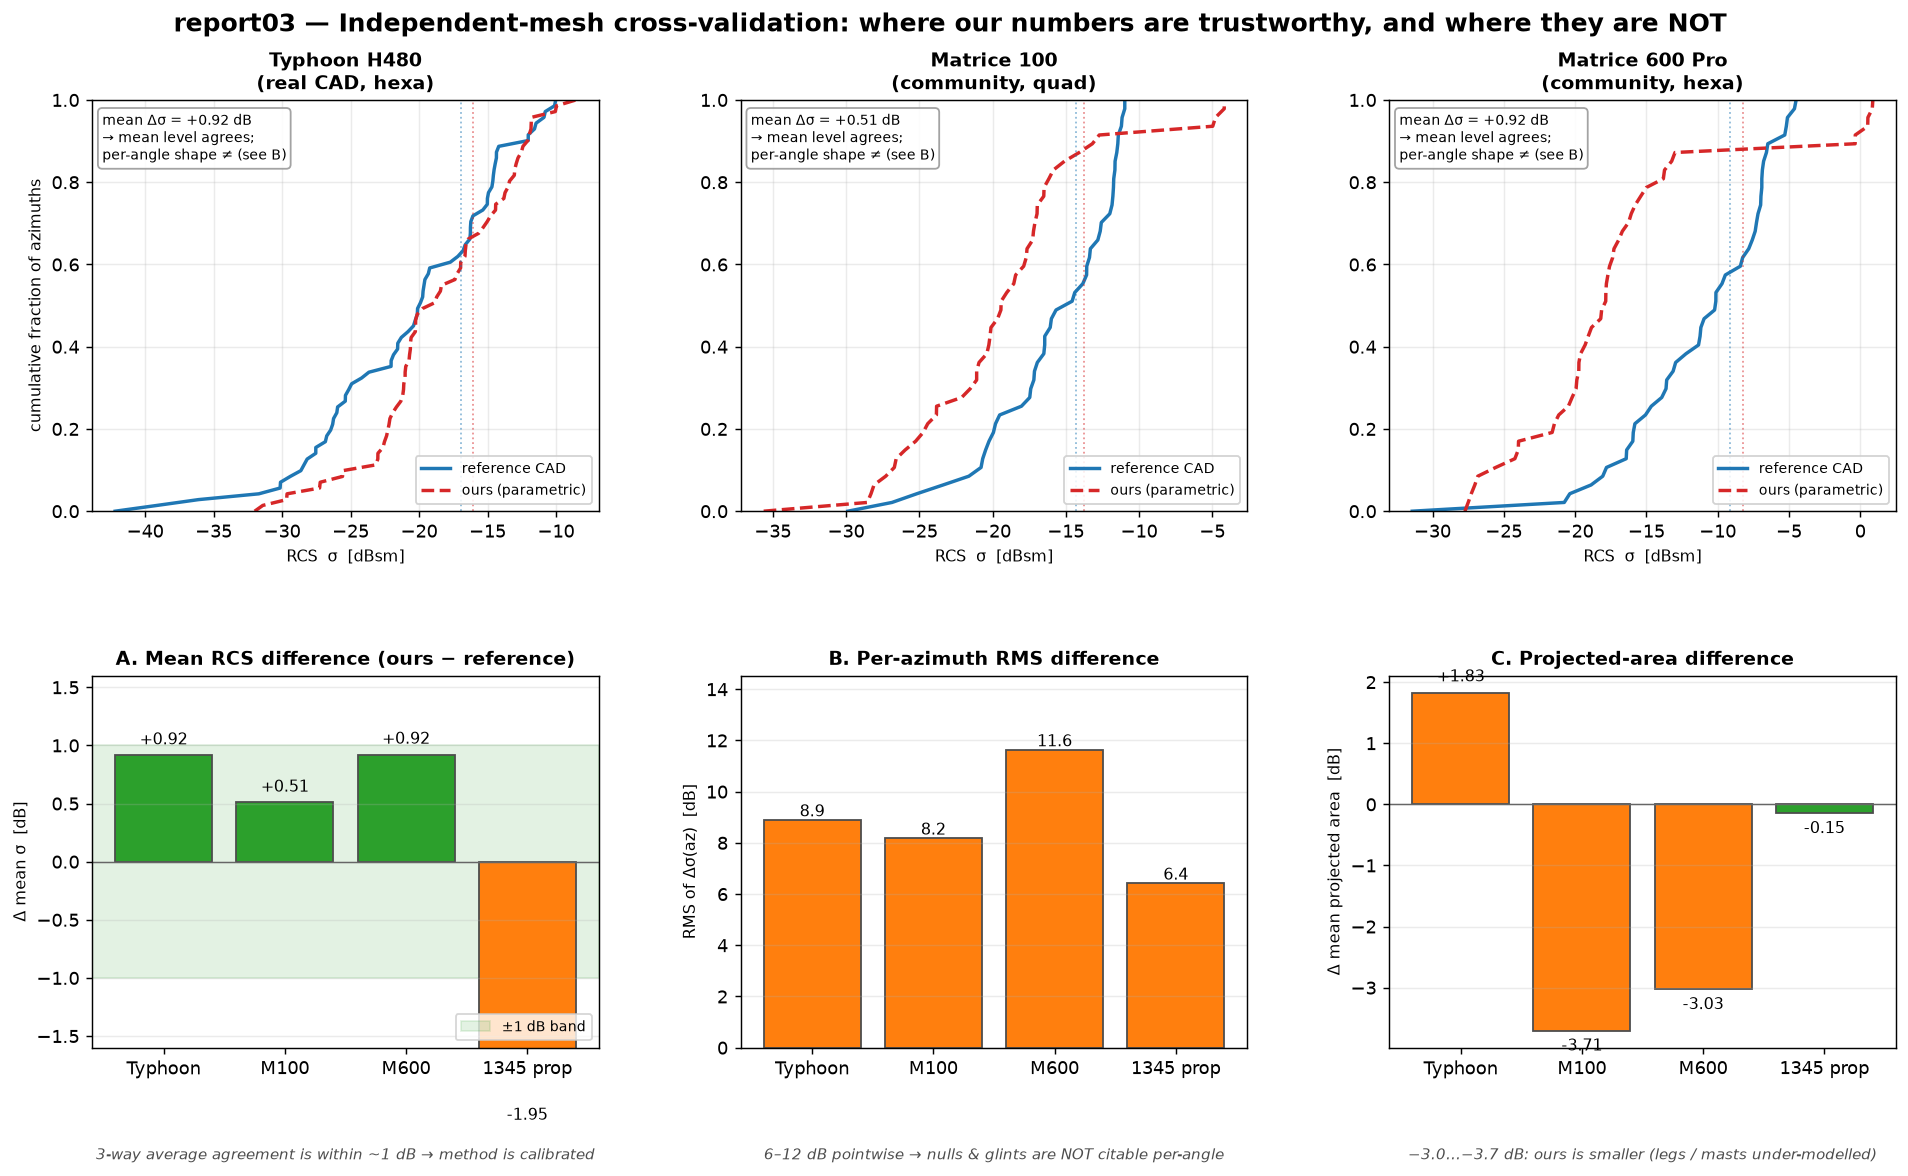
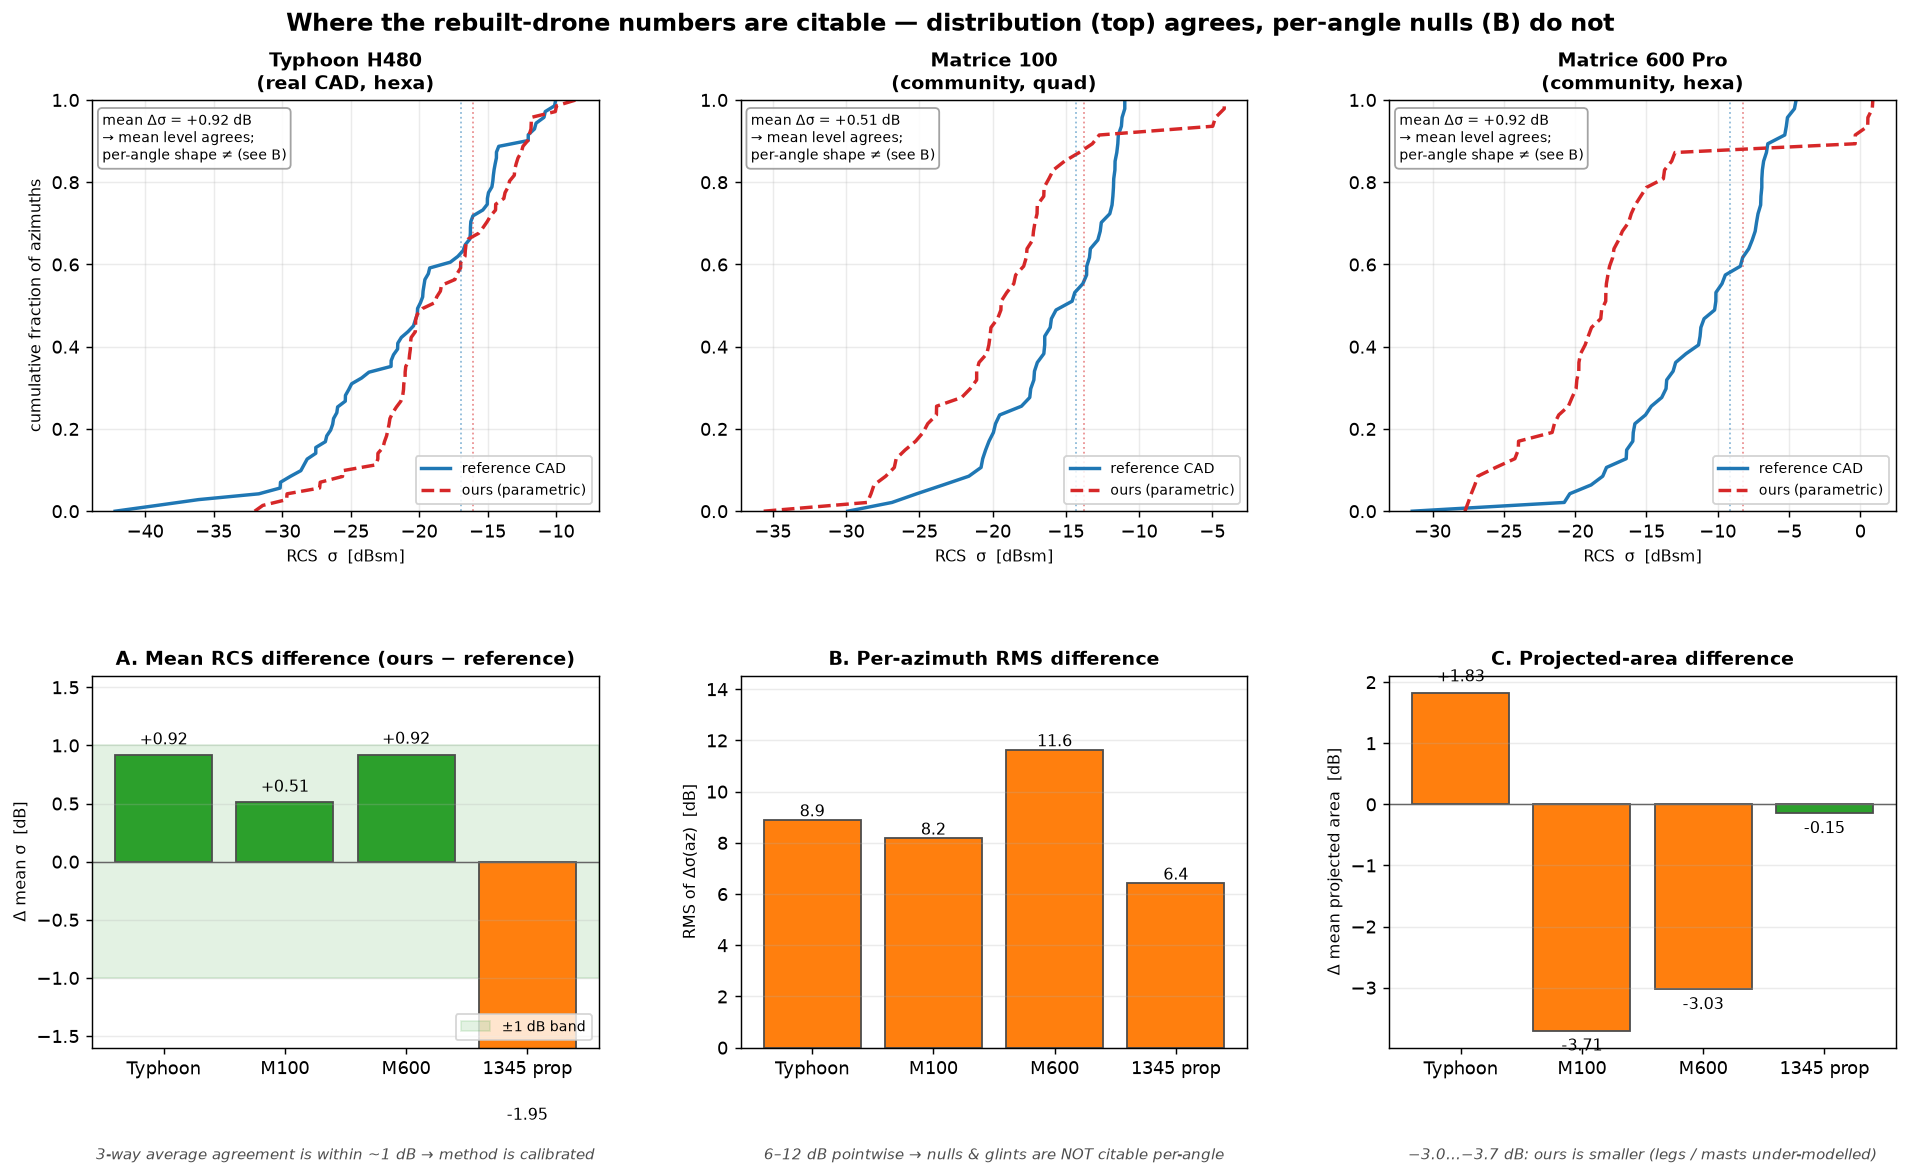
report03 그림 최신화 — 옛 overlay·CDF 스타일을 4종 통일 비교 그림으로 교체
사용자 지적: overlay 그림이 오늘 작업 전(09:20) stale, confidence 제목도 옛것.
- **report03_compare_all.png 신설**: 다운로드 실기체 4종(Typhoon·M100·M600·Phantom
  실측스캔)을 한 표에서 통일 스타일로 — 각 행 [원본 | 우리 재현 | Δ면적·Δσ 결과 막대].
  Phantom 스캔은 점구름, 나머지는 메쉬. src/viz_report3_compare_all.py.
- §3를 이 단일 통일 그림으로 재구성(옛 report03_mesh_overlay·phantom_scan 임베드 제거).
- confidence(CDF) 그림 제목을 현재형으로 갱신, '인용경계 상세'로 유지(최신 데이터).
- Δσ 네 기체 약 ±1 dB(+0.92·+0.51·+0.92·-1.25), Phantom 투영면적 +0.14 dB.

Changed region(s): [[0.0928, 0.0, 0.8968, 0.0306]]

diff --git a/src/viz_report3_compare_all.py b/src/viz_report3_compare_all.py
@@ -1,0 +1,162 @@
+# -*- coding: utf-8 -*-
+"""viz_report3_compare_all.py — report03: 다운로드 실기체 4종을 한 표에서 통일 비교(결과).
+
+각 행 = 다운로드한 원본(왼쪽) · 그 기체를 우리 방식으로 다시 만든 메쉬(가운데) ·
+        형상 일치도(오른쪽, Δ투영면적·Δσ, 둘 다 PEC). 네 기체 모두 ±1 dB 근방이면
+        '스펙시트 → 형상 → 밝기' 파이프라인의 눈금이 맞는다는 뜻.
+원본: 제조사 실물 CAD(Typhoon)·커뮤니티 메쉬(M100·M600)·실물 0.4mm 스캔(Phantom 4).
+출력: outputs/figures/report03_compare_all.png (그림 텍스트 영어 규약).
+"""
+from __future__ import annotations
+import json, os, sys
+import matplotlib; matplotlib.use("Agg")
+import matplotlib.pyplot as plt
+import numpy as np
+from mpl_toolkits.mplot3d.art3d import Poly3DCollection
+
+HERE = os.path.dirname(os.path.abspath(__file__)); ROOT = os.path.abspath(os.path.join(HERE, ".."))
+for p in (HERE, os.path.join(ROOT, "benchmark")):
+    if p not in sys.path:
+        sys.path.insert(0, p)
+
+from mesh_compare import load_reference                                    # noqa: E402
+from compare_real_cad import ours_body_only                               # noqa: E402
+from compare_community import M100, M600, ours_full, load_community        # noqa: E402
+from drones import DRONES, build_drone                                     # noqa: E402
+
+REAL = json.load(open(os.path.join(ROOT, "outputs", "real_cad_compare.json")))
+COMM = json.load(open(os.path.join(ROOT, "outputs", "community_compare.json")))
+PH4 = json.load(open(os.path.join(ROOT, "outputs", "phantom4_scan_compare.json")))
+SCAN = np.load(os.path.join(ROOT, "assets", "meshes", "cad", "phantom4_scan_points.npz"))
+OUT = os.path.join(ROOT, "outputs", "figures", "report03_compare_all.png")
+
+C_REF = (0.60, 0.62, 0.66)     # 원본 — 중립 회색
+C_OURS = (0.30, 0.50, 0.85)    # 우리 재현 — steel-blue(재질색 metal 톤)
+C_OK, C_WARN = "#2e7d32", "#e08e0b"
+
+
+def _decim(m, cap=70000):
+    if len(m.faces) <= cap:
+        return m
+    try:
+        return m.simplify_quadric_decimation(cap)
+    except Exception:
+        return m
+
+
+def _our_phantom():
+    m = build_drone(DRONES["phantom4"]); V = np.asarray(m.v, float); F = np.asarray(m.f)
+    keep = np.array([g not in ("prop", "camera") for g in m.g])
+    fk = F[keep]; used = np.unique(fk); remap = {o: n for n, o in enumerate(used)}
+    return V[used] - (V[used].max(0) + V[used].min(0)) / 2, np.vectorize(remap.get)(fk)
+
+
+def _mesh_panel(ax, m, color, lim):
+    m = _decim(m); V = np.asarray(m.vertices, float); tris = V[np.asarray(m.faces)]
+    nrm = np.cross(tris[:, 1] - tris[:, 0], tris[:, 2] - tris[:, 0])
+    ln = np.linalg.norm(nrm, axis=1, keepdims=True); ln[ln < 1e-9] = 1
+    sh = 0.5 + 0.5 * np.clip(nrm[:, 2:3] / ln * 0.6 + 0.5, 0, 1)
+    ax.add_collection3d(Poly3DCollection(tris, facecolors=np.clip(np.array(color)[None, :] * sh, 0, 1), edgecolors="none"))
+    _lim3d(ax, lim)
+
+
+def _tris_panel(ax, V, F, color, lim):
+    tris = V[F]
+    nrm = np.cross(tris[:, 1] - tris[:, 0], tris[:, 2] - tris[:, 0])
+    ln = np.linalg.norm(nrm, axis=1, keepdims=True); ln[ln < 1e-9] = 1
+    sh = 0.5 + 0.5 * np.clip(nrm[:, 2:3] / ln * 0.6 + 0.5, 0, 1)
+    ax.add_collection3d(Poly3DCollection(tris, facecolors=np.clip(np.array(color)[None, :] * sh, 0, 1), edgecolors="none"))
+    _lim3d(ax, lim)
+
+
+def _pts_panel(ax, P, lim):
+    ax.scatter(P[:, 0], P[:, 1], P[:, 2], c=P[:, 2], cmap="viridis", s=1.1, alpha=0.85, linewidths=0)
+    _lim3d(ax, lim)
+
+
+def _lim3d(ax, lim):
+    ax.set_xlim(-lim, lim); ax.set_ylim(-lim, lim); ax.set_zlim(-lim * 0.6, lim * 0.6)
+    ax.set_box_aspect((1, 1, 0.6)); ax.view_init(22, -58); ax.set_axis_off()
+
+
+def _rad(V):
+    c = (V.max(0) + V.min(0)) / 2
+    return float(np.linalg.norm(V - c, axis=1).max())
+
+
+def _result_panel(ax, d):
+    vals = [d["d_area_db"], d["d_sigma_db"]]
+    cols = [C_OK if abs(v) <= 1.0 else C_WARN for v in vals]
+    XL = 4.6                                         # Δarea 가 -3.7 까지 가므로 넉넉히
+    ax.axvspan(-1, 1, color=C_OK, alpha=0.13, label="±1 dB")
+    ax.axvline(0, color="0.5", lw=0.8)
+    y = [1, 0]
+    ax.barh(y, vals, color=cols, edgecolor="0.3", height=0.5)
+    for yi, v in zip(y, vals):
+        # 라벨은 항상 막대 끝의 0 쪽 안에 둔다(축 밖으로 안 나가게)
+        inside = v >= 0
+        ax.text(v + (-0.12 if inside else 0.12), yi, f"{v:+.2f}", va="center",
+                ha="right" if inside else "left", fontsize=9.5, fontweight="bold",
+                color="white" if abs(v) > 0.6 else "0.2")
+    ax.set_yticks([1, 0]); ax.set_yticklabels(["Δ area", "Δ σ"], fontsize=9)
+    ax.set_xlim(-XL, XL * 0.62); ax.set_xticks([-4, -2, -1, 0, 1, 2])
+    ax.tick_params(labelsize=7.5); ax.grid(axis="x", alpha=0.25)
+    ax.set_xlabel("ours − original  [dB]", fontsize=8)
+    ax.text(0.5, -0.48, f"per-az RMS {d['d_sigma_rms_db']:.1f} dB (nulls, not cited)",
+            transform=ax.transAxes, ha="center", fontsize=8, color="0.4")
+
+
+# (name, source_label, kind) — kind: 'real'|'comm'|'scan'
+ROWS = [
+    ("Yuneec Typhoon H480 (frame)", "manufacturer CAD · Apache-2.0", "typhoon"),
+    ("DJI Matrice 100 (2015 quad)", "community mesh", "m100"),
+    ("DJI Matrice 600 Pro (2016 hexa)", "community mesh", "m600"),
+    ("DJI Phantom 4 (real 0.4 mm scan)", "3D scan · Thingiverse CC-BY", "phantom"),
+]
+
+nrow = len(ROWS)
+fig = plt.figure(figsize=(11.5, 2.9 * nrow), dpi=128)
+gs = fig.add_gridspec(nrow, 3, width_ratios=[1, 1, 0.95], hspace=0.30, wspace=0.05,
+                      left=0.02, right=0.98, top=0.93, bottom=0.03)
+
+for r, (name, src, kind) in enumerate(ROWS):
+    # 원본 + 우리 재현 준비
+    if kind == "typhoon":
+        ref = load_reference("main_body_remeshed_v3.stl"); ours = ours_body_only(); d = REAL["typhoon"]
+        refV = np.asarray(ref.vertices); ourV = np.asarray(ours.vertices)
+    elif kind == "m100":
+        ref = load_community("dji_m100.dae"); ours = ours_full(M100); d = COMM["m100"]
+        refV = np.asarray(ref.vertices); ourV = np.asarray(ours.vertices)
+    elif kind == "m600":
+        ref = load_community("dji_m600.dae"); ours = ours_full(M600); d = COMM["m600"]
+        refV = np.asarray(ref.vertices); ourV = np.asarray(ours.vertices)
+    else:  # phantom (scan points)
+        P = SCAN["P"].astype(float); P = P - (P.max(0) + P.min(0)) / 2
+        oV, oF = _our_phantom(); d = PH4
+        refV, ourV = P, oV
+
+    lim = max(_rad(refV), _rad(ourV)) * 1.03
+
+    axL = fig.add_subplot(gs[r, 0], projection="3d")
+    if kind == "phantom":
+        _pts_panel(axL, refV, lim)
+    else:
+        _mesh_panel(axL, ref, C_REF, lim)
+    axL.set_title(f"{name}\ndownloaded original · {src}", fontsize=9.5, fontweight="bold")
+
+    axM = fig.add_subplot(gs[r, 1], projection="3d")
+    if kind == "phantom":
+        _tris_panel(axM, oV, oF, C_OURS, lim)
+    else:
+        _mesh_panel(axM, ours, C_OURS, lim)
+    axM.set_title("rebuilt our way (from spec)", fontsize=9.5, fontweight="bold", color=(0.20, 0.34, 0.60))
+
+    axR = fig.add_subplot(gs[r, 2])
+    _result_panel(axR, d)
+    axR.set_title("shape match (both PEC)", fontsize=9.5, fontweight="bold")
+
+fig.suptitle("Downloaded drones, rebuilt our way — mean σ matches to ~1 dB (per-angle nulls do not, not cited)",
+             fontsize=13, fontweight="bold", y=0.985)
+os.makedirs(os.path.dirname(OUT), exist_ok=True)
+fig.savefig(OUT, dpi=128, bbox_inches="tight", facecolor="white"); plt.close(fig)
+print(f"✅ {os.path.relpath(OUT)}")

diff --git a/src/make_notebook03.py b/src/make_notebook03.py
@@ -112,9 +112,12 @@ cells += provenance_cells(
         "# 커뮤니티 메쉬 대조 (M100 · M600) → outputs/community_compare.json",
         "~/.venvs/py312/bin/python benchmark/compare_community.py",
         "",
-        "# 신뢰 경계 종합 그림 + 인터넷 mesh vs 자작 mesh 시각 비교",
+        "# Phantom 4 실물 0.4mm 스캔 대조 (스캔 STL 필요 — prep_cad_scan.py 참조) → phantom4_scan_compare.json",
+        "~/.venvs/py312/bin/python src/compare_phantom_scan.py",
+        "",
+        "# 통일 비교 그림(4종 원본·재현·일치도) + 인용경계 상세(CDF)",
+        "~/.venvs/py312/bin/python src/viz_report3_compare_all.py",
         "~/.venvs/py312/bin/python src/viz_report3_cad.py",
-        "~/.venvs/py312/bin/python src/viz_report3_overlay.py",
         "",
         "# Gazebo/PX4 SDF 내보내기",
         "~/.venvs/py312/bin/python src/gazebo_export.py",
@@ -126,9 +129,8 @@ cells += provenance_cells(
         dict(file="outputs/real_cad_compare.json", what="Typhoon H480·Holybro 프롭 대조의 모든 숫자 (방위별 σ·면적·평균차)"),
         dict(file="outputs/community_compare.json", what="Matrice 100·600 대조의 모든 숫자"),
         dict(file="outputs/phantom4_scan_compare.json", what="Phantom 4 실물 0.4mm 스캔 vs 우리 메쉬 대조 숫자 (σ·면적·방위별)"),
-        dict(file="outputs/figures/report03_phantom_scan.png", what="Phantom 4 실물 스캔 vs 우리 메쉬 — 원본·재현·일치도(결과)"),
-        dict(file="outputs/figures/report03_confidence.png", what="신뢰 경계 종합 그림 (어디까지 믿나)"),
-        dict(file="outputs/figures/report03_mesh_overlay.png", what="인터넷 mesh vs 자작 mesh 시각 비교(형상+σ)"),
+        dict(file="outputs/figures/report03_compare_all.png", what="다운로드 실기체 4종 통일 비교 — 원본·우리 재현·형상 일치도(결과)"),
+        dict(file="outputs/figures/report03_confidence.png", what="인용 경계 상세 — 분포(CDF) 일치·각도별 널 불일치"),
         dict(file="outputs/gazebo/<key>/model.sdf", what="드론 5종의 Gazebo/PX4 비행 시뮬 모델 (SDF)"),
     ],
     caveats=[
@@ -251,32 +253,29 @@ cells.append(md(
 cells.append(md(
     "## §3. 증거 — 다운로드한 실기체를 우리 방식으로 다시 만들어 겹쳐 본 결과",
     "",
-    "**가장 깨끗한 검증부터.** DJI **Phantom 4** 는 실물 0.4 mm 3D 스캔이 공개돼 있다"
-    "(Thingiverse thing:1456295, CC-BY). 그 스캔에 **대응하는 파트만**(스캔엔 프로펠러·짐벌이 없어 우리도 뺀다) "
-    "우리 방식으로 만들어, 같은 조건(둘 다 PEC)으로 비교했다:",
+    "공개 3D 모델이 있는 실기체 **네 대** — 제조사 실물 CAD(Yuneec Typhoon H480)·커뮤니티 메쉬(구형 DJI "
+    "M100·M600)·**DJI Phantom 4 실물 0.4 mm 스캔**(Thingiverse thing:1456295, CC-BY) — 을 각각 우리 방식으로 "
+    "다시 만들어, 같은 조건(둘 다 PEC)으로 원본과 겹쳐 봤다:",
     "",
-    "![our Phantom 4 mesh vs real 0.4mm scan](outputs/figures/report03_phantom_scan.png)",
+    "![downloaded drones rebuilt our way](outputs/figures/report03_compare_all.png)",
     "",
-    f"투영면적 차이 **{PH4['d_area_db']:+.2f} dB**(거의 완벽 일치), 평균 밝기 σ 차이 **{PH4['d_sigma_db']:+.2f} dB** — "
-    f"스펙시트 숫자만으로 지은 우리 메쉬가 **실물 스캔의 형상을 그대로 재현**한다(몸통·아치형 착륙다리까지). "
-    f"방향별 뾰족값 {PH4['d_sigma_rms_db']:.1f} dB 차이는 널 위치라 인용하지 않는다.",
+    f"각 행: **왼쪽** 다운로드 원본(Phantom 은 실물 스캔 점구름) · **가운데** 그 기체를 스펙시트로 다시 만든 우리 "
+    f"메쉬 · **오른쪽** 형상 일치도. 평균 밝기 σ 는 네 기체 모두 **약 ±1 dB**"
+    f"({TY['d_sigma_db']:+.2f}·{M100['d_sigma_db']:+.2f}·{M600['d_sigma_db']:+.2f}·{PH4['d_sigma_db']:+.2f} dB). "
+    f"특히 **Phantom 4 실측 스캔**은 투영면적이 **{PH4['d_area_db']:+.2f} dB** 로 거의 완벽히 겹쳐(몸통·아치형 "
+    f"착륙다리까지), 스펙시트 숫자만으로 지은 우리 메쉬가 실물 형상을 그대로 재현함을 보인다.",
     "",
-    "**같은 방식을 실기체 3종에 더.** 아래는 공개 모델이 있는 또 다른 드론 3개 — 제조사 실물 CAD"
-    "(Yuneec Typhoon H480)·커뮤니티 메쉬(구형 DJI M100·M600) — 를 같은 방식으로 다시 만들어 겹친 것이다"
-    "(왼쪽 원본, 오른쪽 우리 제작·같은 축척·시점).",
-    "",
-    "![internet mesh vs our spec-built mesh](outputs/figures/report03_mesh_overlay.png)",
-    "",
-    "> ⚠ **핵심은 '세부 형상이 똑같다'가 아니다.** 커뮤니티 모델은 프로펠러를 **스윕 디스크**(회전면)로 그리는 "
-    "등 제작 방식이 제각각이라 세부는 다르게 보인다. 우리가 확인하는 것은 하나 — **같은 로터 수·크기의 기체를 "
-    "우리 파이프라인으로 지으면 되쏘는 평균 밝기(RCS)가 원본과 ±1 dB 로 맞느냐**(각 제목의 Δσ)이다.",
+    "> ⚠ **핵심은 '세부 형상이 똑같다'가 아니다.** 커뮤니티 모델은 프로펠러를 **스윕 디스크**(회전면)로 그리는 등 "
+    "제작 방식이 제각각이고(그래서 투영면적이 −3 dB 안팎 갈리기도 한다), 세부는 다르게 보인다. 우리가 확인하는 "
+    "것은 하나 — **같은 로터 수·크기의 기체를 우리 파이프라인으로 지으면 되쏘는 평균 밝기(RCS)가 원본과 ~1 dB 로 "
+    "맞느냐**이다(각 행 오른쪽 Δσ).",
     "",
     "<sub>양쪽 모두 PEC(완전도체)로 통일해 형상만 본다(재질은 report08 에서 실측 앵커). 세부가 다르므로 "
-    "**각도별** RCS 는 어긋나고(6~12 dB, 결과②) **평균만** 인용한다. 이 대조의 값어치는 '우리 방법을 우리와 "
-    "무관한 외부 실기체 **4개(실물 스캔 포함)**로 독립 검증했다'는 것 자체다. 우리 타깃 DJI 신형은 공개 CAD 가 "
-    "없어 이렇게 **방법을 대리 검증**한다.</sub>",
+    "**각도별** RCS 는 어긋나고(6~12 dB, 결과②) **평균만** 인용한다. 값어치는 '우리 방법을 우리와 무관한 외부 "
+    "실기체 **4개(실물 스캔 포함)**로 독립 검증했다'는 것 자체다. 우리 타깃 DJI 신형은 공개 CAD 가 없어 이렇게 "
+    "**방법을 대리 검증**한다.</sub>",
     "",
-    "### 결과 ① 평균 밝기는 네 기체 모두 ~1 dB 이내로 맞는다",
+    "### 결과 ① 평균 밝기는 네 기체 모두 ~1 dB 근방으로 맞는다",
     "",
     "| 기체 | 진짜 모델 평균 σ | 우리 모형 평균 σ | 차이 (우리 − 진짜) |",
     "|---|---|---|---|",

diff --git a/src/viz_report3_cad.py b/src/viz_report3_cad.py
@@ -45,8 +45,8 @@ fig = plt.figure(figsize=(15, 9), dpi=130)
 gs = fig.add_gridspec(2, 3, height_ratios=[1.05, 0.95], hspace=0.42, wspace=0.28,
                       left=0.06, right=0.985, top=0.90, bottom=0.09)
 
-fig.suptitle("report03 — Independent-mesh cross-validation: where our numbers are trustworthy, and where they are NOT",
-             fontsize=14, fontweight="bold", y=0.975)
+fig.suptitle("Where the rebuilt-drone numbers are citable — distribution (top) agrees, per-angle nulls (B) do not",
+             fontsize=13.5, fontweight="bold", y=0.975)
 
 # ── Row 1: DISTRIBUTION (empirical CDF) of sigma over azimuth — reference vs ours ─
 #   방위별 곡선을 그대로 겹치면 널/글린트 위치가 어긋나 '검증 실패'처럼 보인다. 그러나
